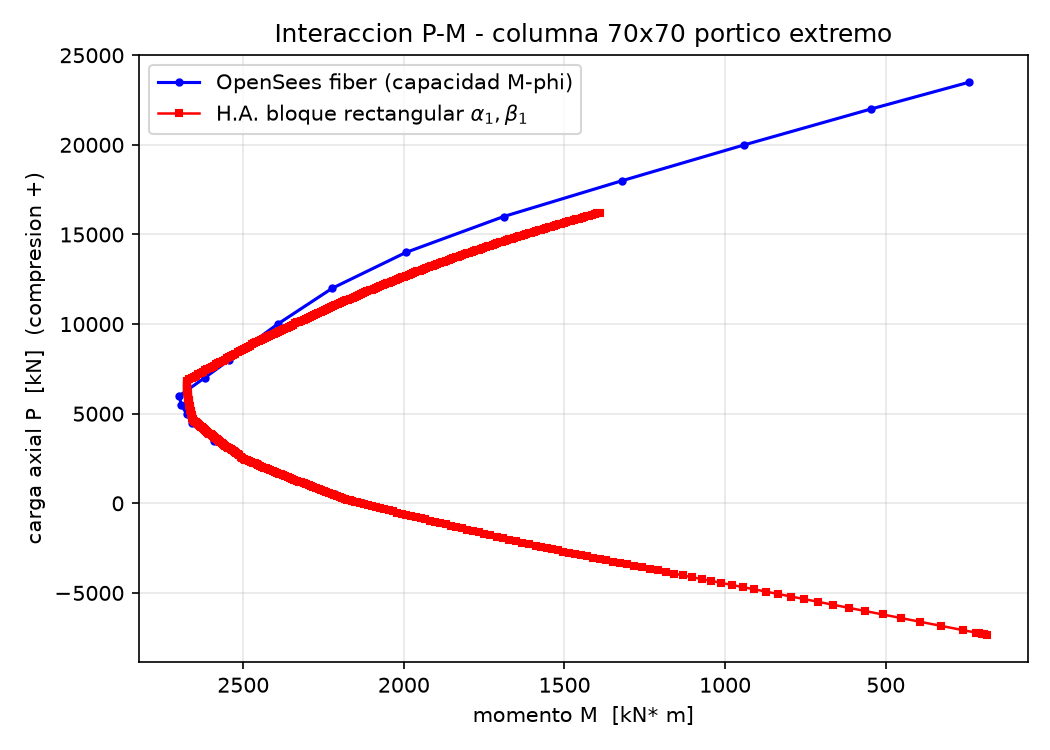
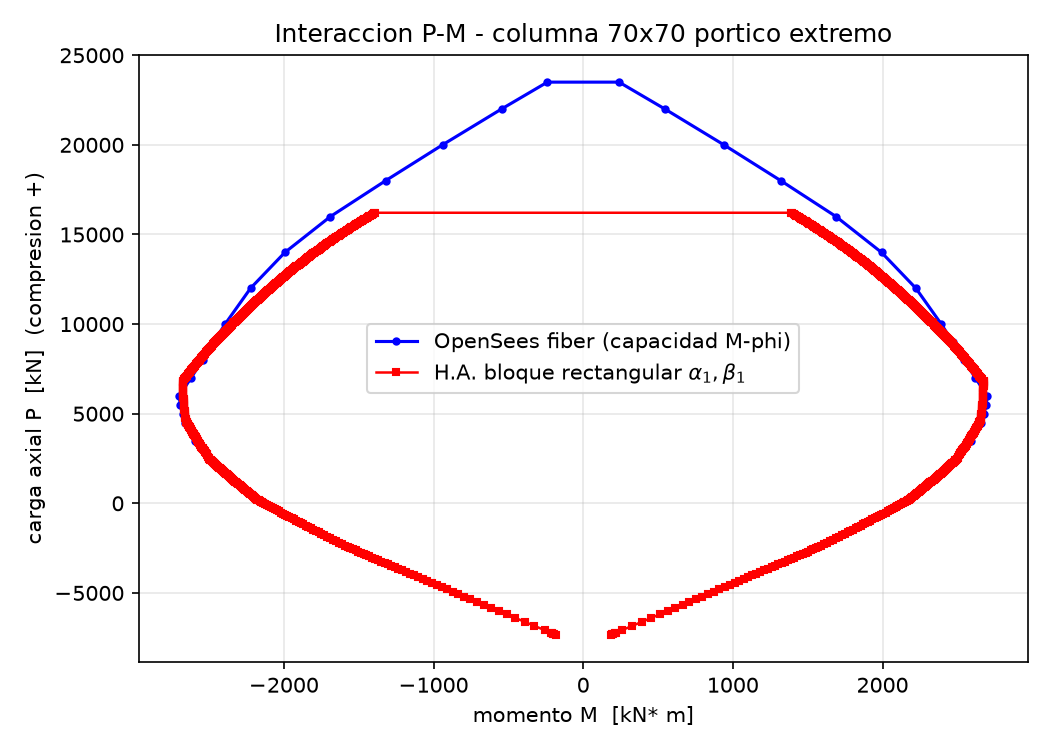
feat: diagramas P-M con diamante completo simetrico (ramas +/- por espejo)

diff --git a/edificio_3d.html b/edificio_3d.html
@@ -2777,10 +2777,10 @@ const F = ANALYSIS.forces[S.caso] || {};
       return;
     }
     const P = cur.P, Mc = cur.M;
-    // escalas
-    let Pmax = 0, Mmax = 0;
+    // diamante completo: escalas simetricas en M (ramas + y -)
+    let Pmax = 0, Mabs = 0;
     P.forEach(p => Pmax = Math.max(Pmax, p));
-    Mc.forEach(m => Mmax = Math.max(Mmax, m));
+    Mc.forEach(m => Mabs = Math.max(Mabs, m));
 
     const W = 360, H = 240, px = 46, py = 16, pw = W - px - 14, ph = H - py - 30;
     const cv = document.createElement('canvas');
@@ -2799,13 +2799,22 @@ const F = ANALYSIS.forces[S.caso] || {};
     ctx.fillText('M [kNm]', px + pw / 2, H - 6);
     ctx.save(); ctx.translate(12, py + ph / 2); ctx.rotate(-Math.PI / 2);
     ctx.fillText('P [kN]', 0, 0); ctx.restore();
+    // eje vertical (M=0) en el centro
+    ctx.strokeStyle = '#3a3a5a'; ctx.lineWidth = 1;
+    ctx.beginPath(); ctx.moveTo(px + pw / 2, py); ctx.lineTo(px + pw / 2, py + ph);
+    ctx.stroke();
 
-    function sx(m) { return px + pw * m / Mmax; }
+    function sx(m) { return px + pw / 2 + pw * m / (2 * Mabs); }
     function sy(p) { return py + ph - ph * p / Pmax; }
 
+    // rama positiva (M >= 0)
     ctx.beginPath(); ctx.moveTo(sx(Mc[0]), sy(P[0]));
     for (let i = 1; i < Mc.length; i++) ctx.lineTo(sx(Mc[i]), sy(P[i]));
     ctx.strokeStyle = '#0ff'; ctx.lineWidth = 2; ctx.stroke();
+    // rama negativa (espejo M <= 0)
+    ctx.beginPath(); ctx.moveTo(sx(-Mc[0]), sy(P[0]));
+    for (let i = 1; i < Mc.length; i++) ctx.lineTo(sx(-Mc[i]), sy(P[i]));
+    ctx.strokeStyle = '#0aa'; ctx.lineWidth = 1.5; ctx.stroke();
 
     // capacidad M interpolada al mismo nivel de carga axial Pd
     function mcapAt(p) {

diff --git a/scripts/parte_d_fiber.py b/scripts/parte_d_fiber.py
@@ -92,14 +92,18 @@ def interaccion(section, cfg_col, grid, nombre, titulo, figura=True):
     a1, b1 = vh._constantes()
     if figura:
         plt.figure(figsize=(7, 5))
-        plt.plot(M, P, "b-o", ms=3, lw=1.5,
+        # diamante completo: reflejar rama simetrica (M negativo)
+        M_full = list(M) + list(reversed([-m for m in M]))
+        P_full = list(P) + list(reversed(P))
+        Mh_full = list(Mh) + list(reversed([-m for m in Mh]))
+        Ph_full = list(Ph) + list(reversed(Ph))
+        plt.plot(M_full, P_full, "b-o", ms=3, lw=1.5,
                  label="OpenSees fiber (capacidad M-phi)")
-        plt.plot(Mh, Ph, "r-s", ms=2.5, lw=1.2,
+        plt.plot(Mh_full, Ph_full, "r-s", ms=2.5, lw=1.2,
                  label="H.A. bloque rectangular $\\alpha_1,\\beta_1$")
         plt.xlabel("momento M  [kN* m]")
         plt.ylabel("carga axial P  [kN]  (compresion +)")
         plt.legend()
-        plt.gca().invert_xaxis()
     guardar_json(nombre, section, {
         "tipo": "interaccion_PM",
         "seccion": section["nombre"],

diff --git a/scripts/demanda_capacidad.py b/scripts/demanda_capacidad.py
@@ -211,7 +211,9 @@ def main():
         Mcap = cur.get("M")
     if Pcap and Mcap:
         plt.figure(figsize=(7, 5))
-        plt.plot(Mcap, Pcap, "b-o", ms=3, lw=1.5, label="Capacidad P-M (fiber)")
+        Mcar = list(Mcap) + list(reversed([-m for m in Mcap]))
+        Pcar = list(Pcap) + list(reversed(Pcap))
+        plt.plot(Mcar, Pcar, "b-o", ms=3, lw=1.5, label="Capacidad P-M (fiber)")
         plt.plot([0, crit["M_d_kNm"]], [crit["P_d_kN"], crit["P_d_kN"]],
                  "k--", lw=0.8, alpha=0.5)
         plt.plot([crit["M_d_kNm"], crit["M_d_kNm"]], [0, crit["P_d_kN"]],
@@ -224,7 +226,7 @@ def main():
                   f"- caso {CASO}")
         plt.legend()
         plt.grid(alpha=0.3)
-        plt.gca().invert_xaxis()
+        plt.axvline(0, color="w", lw=0.8, alpha=0.4)
         plt.tight_layout()
         out = os.path.join(FIG, f"demanda_capacidad_{crit['id']}.png")
         plt.savefig(out, dpi=150)

diff --git a/scripts/parte_d_muros.py b/scripts/parte_d_muros.py
@@ -58,7 +58,9 @@ def guardar_pm(section, P, M):
 def guardar_png(section, P, M):
     path = os.path.join(FIG_DIR, f"pm_{section['nombre']}.png")
     plt.figure(figsize=(7, 5))
-    plt.plot(M, P, "b-o", ms=3, lw=1.5)
+    M_full = list(M) + list(reversed([-m for m in M]))
+    P_full = list(P) + list(reversed(P))
+    plt.plot(M_full, P_full, "b-o", ms=3, lw=1.5)
     plt.xlabel("momento M [kN*m]")
     plt.ylabel("carga axial P [kN] (compresion +)")
     plt.title(f"Interaccion P-M - {section['nombre']} (fiber)")
